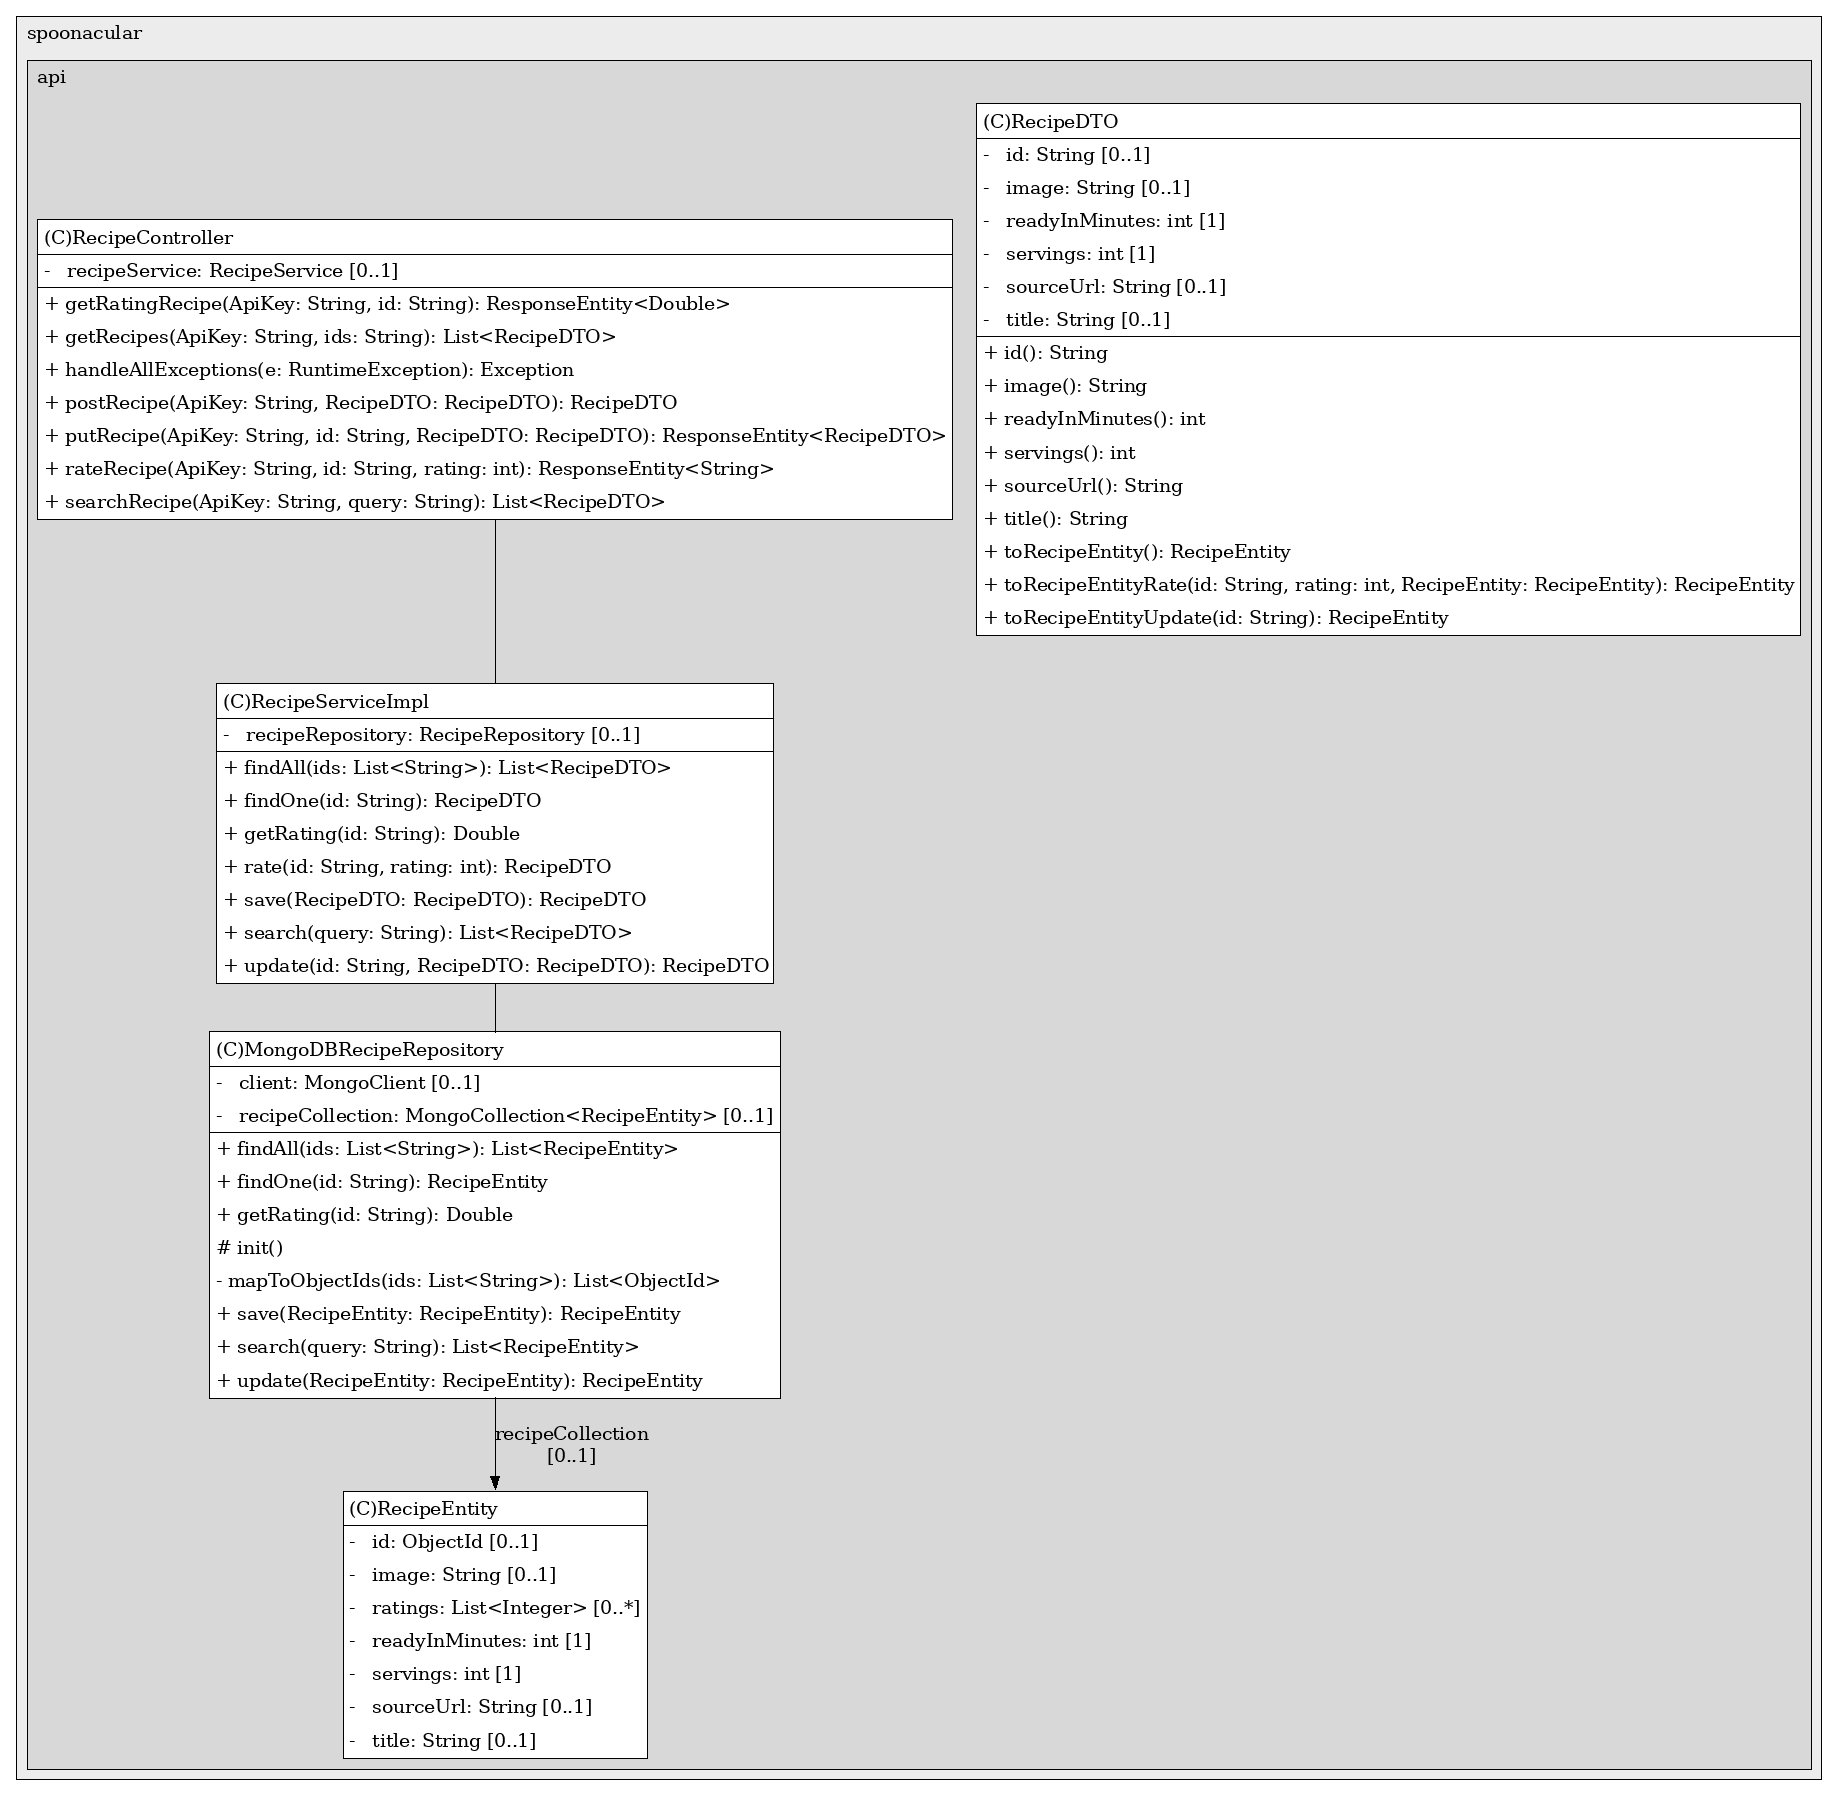
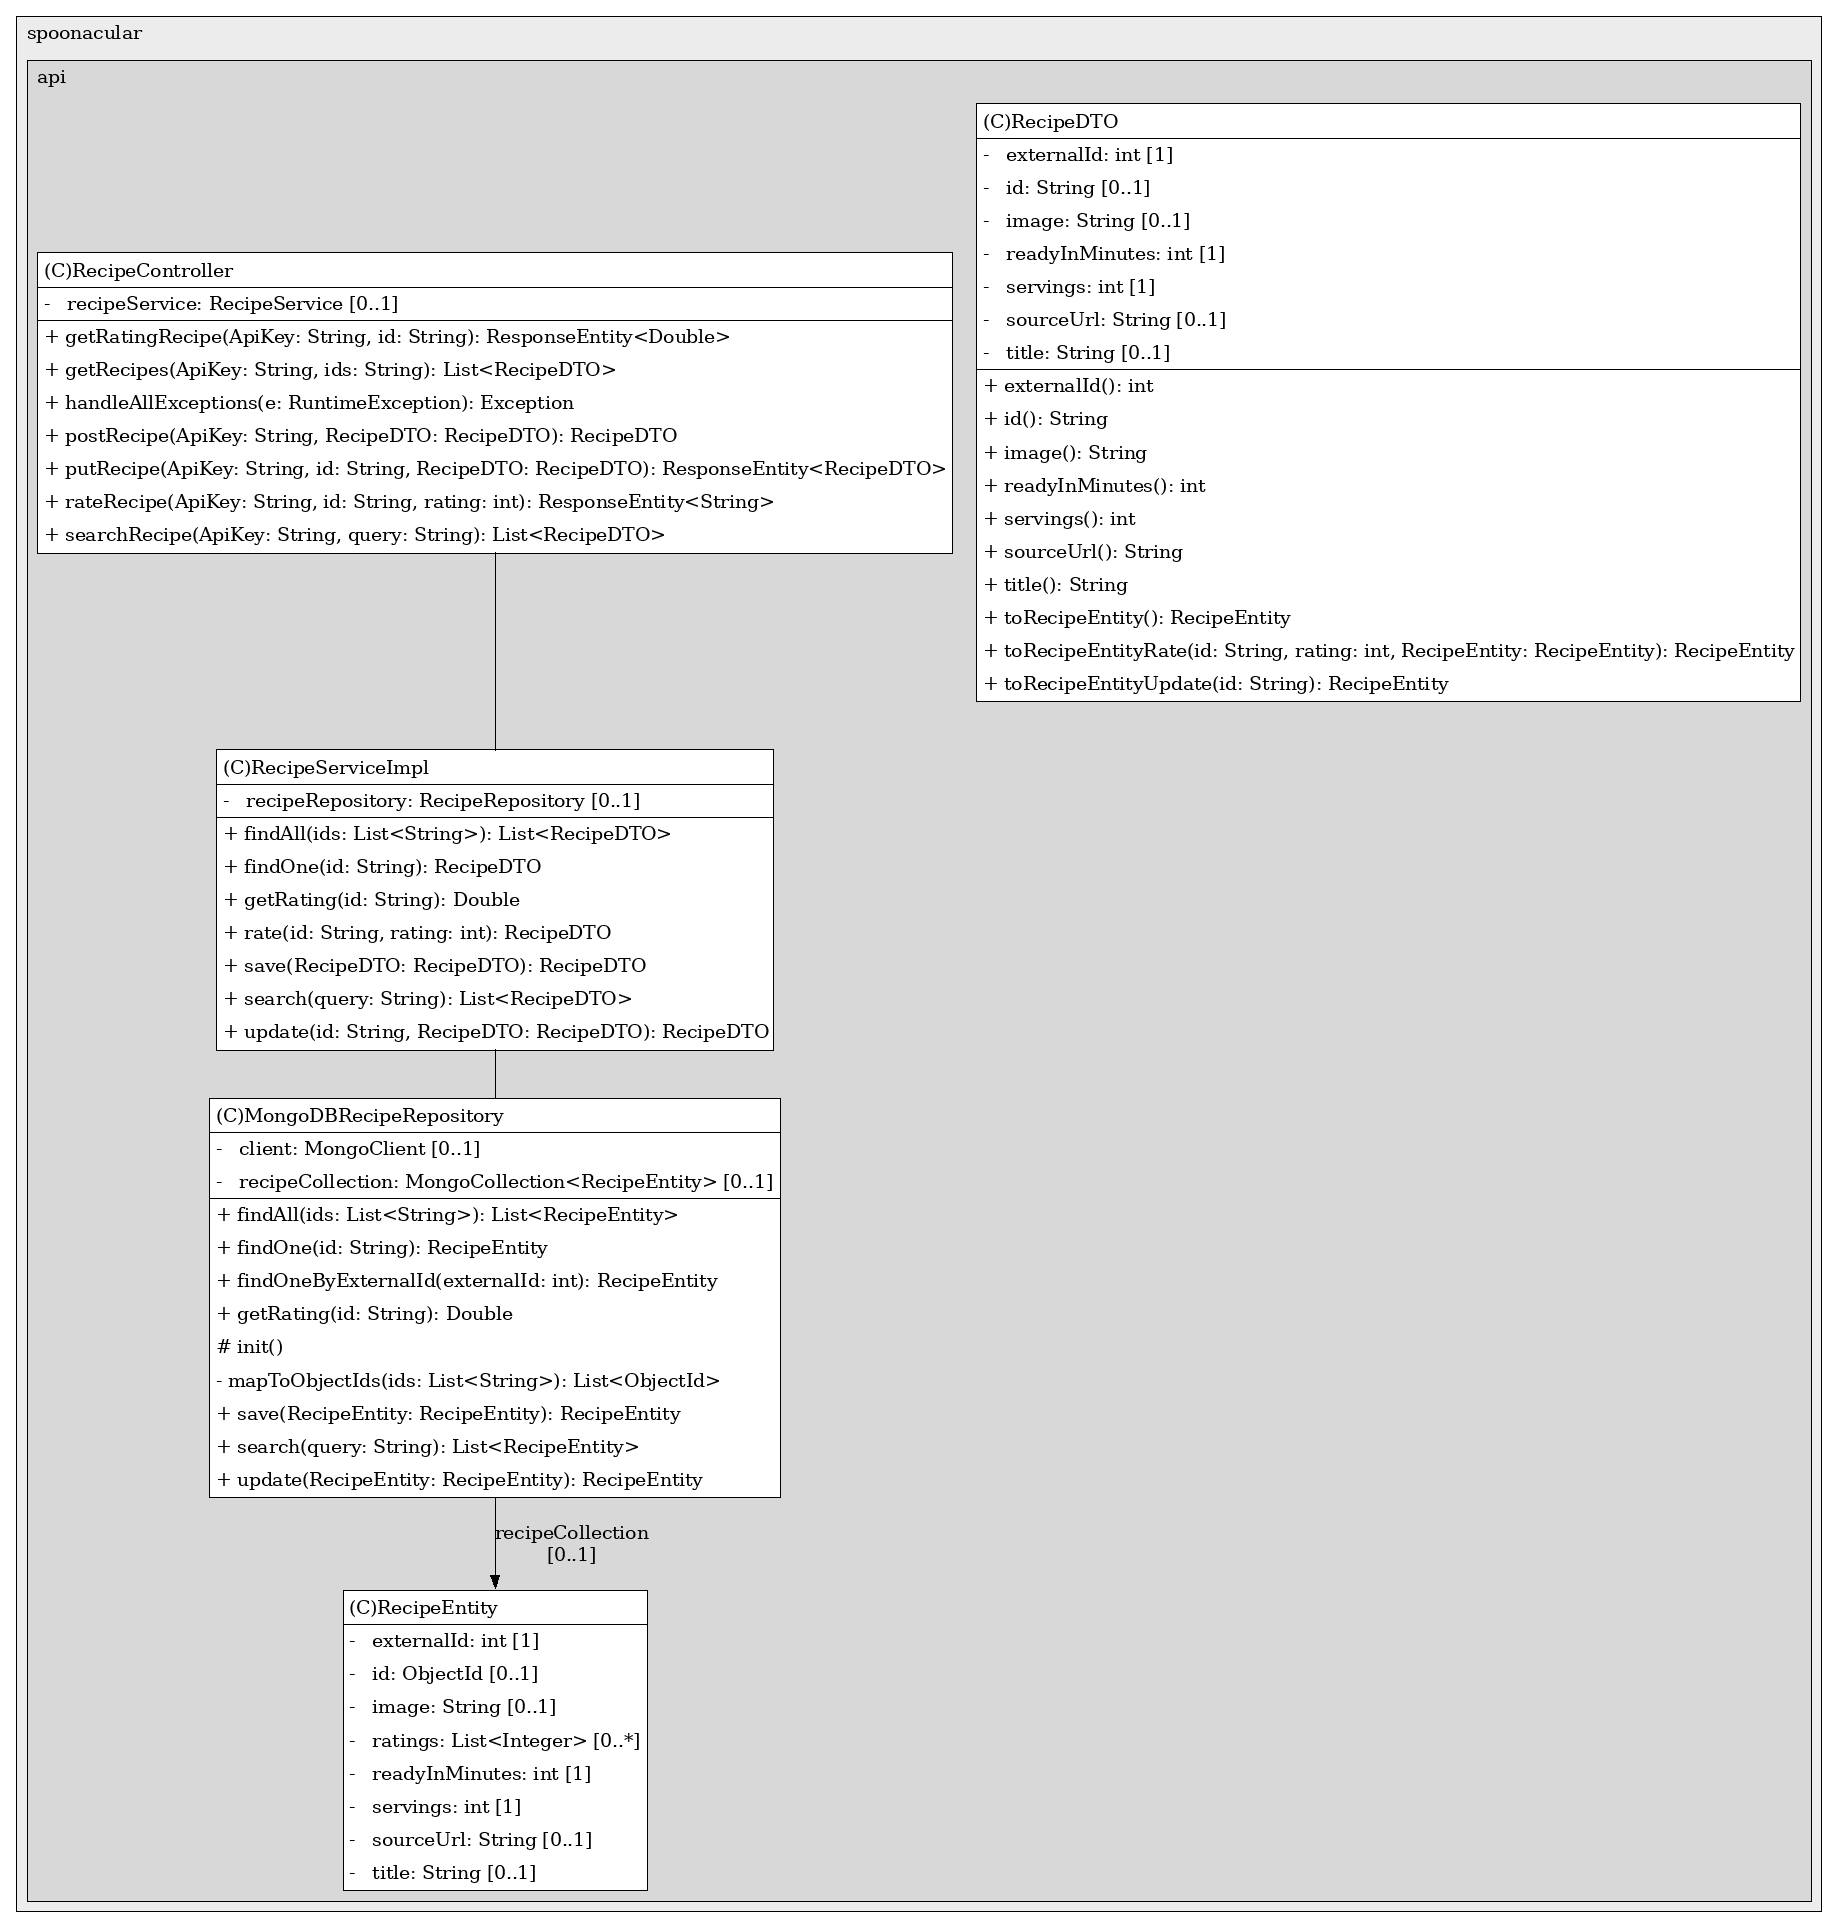
Updated documentation

Changed region(s): [[0.0, 0.0312, 0.9929, 0.3744], [0.0931, 0.3744, 0.4344, 0.9983], [0.0, 0.0, 0.0931, 0.0312]]

diff --git a/src/main/java/com/spoonacular/api/repositories/MongoDBRecipeRepository.java b/src/main/java/com/spoonacular/api/repositories/MongoDBRecipeRepository.java
@@ -20,20 +20,19 @@ import static com.mongodb.client.model.Filters.*;
 import static com.mongodb.client.model.ReturnDocument.AFTER;
 
 /**
- * The MongoDBRecipeRepository class implements the RecipeRepository interface.
- * It provides the concrete implementation of the methods declared in the RecipeRepository interface.
- * This class is responsible for performing CRUD operations on the RecipeEntity objects in the MongoDB database.
- * The class is annotated with @Repository, indicating that it's a Data Access Object (DAO) providing the mechanism for storage, retrieval,
- * search, update and delete operation on objects.
- * The class includes a constructor for creating a new MongoDBRecipeRepository object with a MongoClient parameter.
- * It also includes a @PostConstruct annotated method for initializing the MongoCollection with the appropriate database and collection.
- * The class overrides the save, findAll, findOne, search, update, and getRating methods from the RecipeRepository interface.
- * The save method is used to save a new RecipeEntity object in the database.
- * The findAll method is used to find all RecipeEntity objects in the database by their ids.
- * The findOne method is used to find a RecipeEntity object in the database by its id.
- * The search method is used to find RecipeEntity objects in the database by a query string.
- * The update method is used to update an existing RecipeEntity object in the database and return the updated object.
- * The getRating method is used to calculate the average rating of a RecipeEntity object.
+ * The MongoDBRecipeRepository class is a repository class in this Spring Boot application that implements the RecipeRepository interface.
+ * The class is annotated with @Repository, indicating that it's a repository component in the Spring framework. It's automatically detected during classpath scanning.
+ * The class includes a private MongoClient field for interacting with MongoDB, and a MongoCollection field for handling the collection of RecipeEntity objects.
+ * The class includes a constructor that takes a MongoClient object as a parameter. This constructor is used for dependency injection.
+ * The class includes an init method annotated with @PostConstruct, which is used to initialize the recipeCollection field after dependency injection is done.
+ * The class implements several methods from the RecipeRepository interface:
+ * - save(RecipeEntity RecipeEntity): This method saves a new RecipeEntity to the MongoDB collection and returns it.
+ * - findAll(List<String> ids): This method finds and returns all RecipeEntity objects with the given ids from the MongoDB collection.
+ * - findOne(String id): This method finds and returns a RecipeEntity with the given id from the MongoDB collection.
+ * - findOneByExternalId(int externalId): This method finds and returns a RecipeEntity with the given external id from the MongoDB collection.
+ * - search(String query): This method finds and returns all RecipeEntity objects that match the given query from the MongoDB collection.
+ * - update(RecipeEntity RecipeEntity): This method updates a RecipeEntity in the MongoDB collection and returns it.
+ * - getRating(String id): This method calculates and returns the average rating of a RecipeEntity with the given id from the MongoDB collection.
  */
 @Repository
 public class MongoDBRecipeRepository implements RecipeRepository {

diff --git a/src/main/java/com/spoonacular/api/dtos/RecipeDTO.java b/src/main/java/com/spoonacular/api/dtos/RecipeDTO.java
@@ -8,15 +8,20 @@ import java.util.ArrayList;
 import java.util.List;
 
 /**
- * The RecipeDTO record is a Data Transfer Object (DTO) used for transferring data between subsystems of the application.
- * It is used to represent a recipe in a form that is convenient for the client-side of the application.
- * It includes fields for id, readyInMinutes, sourceUrl, image, servings, and title.
- * The record also includes methods for converting between RecipeDTO and RecipeEntity objects.
- * These methods are used when retrieving data from the database and sending it to the client, or vice versa.
- * The RecipeDTO(RecipeEntity p) constructor is used to create a RecipeDTO object from a RecipeEntity object.
- * The toRecipeEntity() method is used to convert a RecipeDTO object back into a RecipeEntity object.
- * The toRecipeEntityUpdate(String id) method is used to convert a RecipeDTO object into a RecipeEntity object with a specific id.
- * The toRecipeEntityRate(String id, int rating, RecipeEntity RecipeEntity) method is used to convert a RecipeDTO object into a RecipeEntity object with a specific id and rating.
+ * The RecipeDTO record is a data transfer object in this Spring Boot application.
+ * The record includes the following fields:
+ * - id: A string representing the id of the recipe.
+ * - readyInMinutes: An integer representing the time required to prepare the recipe.
+ * - sourceUrl: A string representing the URL of the source of the recipe.
+ * - image: A string representing the URL of the image of the recipe.
+ * - servings: An integer representing the number of servings the recipe makes.
+ * - title: A string representing the title of the recipe.
+ * - externalId: An integer representing the external id of the recipe.
+ * The record includes a constructor that takes a RecipeEntity object as a parameter and initializes the fields of the record.
+ * The record includes several methods to convert the RecipeDTO to a RecipeEntity:
+ * - toRecipeEntity(): This method creates a new RecipeEntity object from the RecipeDTO.
+ * - toRecipeEntityUpdate(String id): This method creates a new RecipeEntity object from the RecipeDTO with a specified id.
+ * - toRecipeEntityRate(String id, int rating, RecipeEntity RecipeEntity): This method creates a new RecipeEntity object from the RecipeDTO with a specified id and rating.
  */
 public record RecipeDTO(
         String id,

diff --git a/src/main/java/com/spoonacular/api/services/SpoonacularServiceImpl.java b/src/main/java/com/spoonacular/api/services/SpoonacularServiceImpl.java
@@ -15,12 +15,11 @@ import java.util.Optional;
 /**
  * The SpoonacularServiceImpl class is a service class in this Spring Boot application that implements the SpoonacularService interface.
  * The class is annotated with @Service, indicating that it's a service component in the Spring framework. It's automatically detected during classpath scanning.
- * The class includes a private field named restTemplate which is a Spring's central class for synchronous HTTP client-side access.
- * It also includes two private fields, apiKey and baseUrl, which are injected from the application's properties file.
- * The class includes a constructor that takes a RestTemplateBuilder object as a parameter. This constructor is used for dependency injection and to build the restTemplate.
+ * The class includes two private fields, apiKey and baseUrl, which are injected from the application's properties file. It also includes a RestTemplate object for making HTTP requests and a RecipeRepository object for interacting with the database.
+ * The class includes a constructor that takes a RestTemplateBuilder and a RecipeRepository object as parameters. This constructor is used for dependency injection and to build the restTemplate.
  * The class implements two methods from the SpoonacularService interface:
- * - findOne(int id): This method constructs the URI for the Spoonacular API, makes a GET request to the API, and returns a JsonObject that represents a recipe with the given id.
- * - search(String query): This method constructs the URI for the Spoonacular API, makes a GET request to the API, and returns a JsonObject that represents a recipe matching the given query string.
+ * - findOne(int id): This method constructs the URI for the Spoonacular API, makes a GET request to the API, and returns a JsonObject that represents a recipe with the given id. It also updates the corresponding recipe in the database.
+ * - search(String query): This method constructs the URI for the Spoonacular API, makes a GET request to the API, and returns a JsonObject that represents a recipe matching the given query string. It also saves the corresponding recipes in the database.
  */
 @Service
 public class SpoonacularServiceImpl implements SpoonacularService {

diff --git a/src/main/java/com/spoonacular/api/repositories/RecipeRepository.java b/src/main/java/com/spoonacular/api/repositories/RecipeRepository.java
@@ -7,13 +7,16 @@ import org.springframework.stereotype.Repository;
 import java.util.List;
 
 /**
- * The RecipeRepository interface is a part of the repository layer in the MVC architecture of this Spring Boot application.
- * It is used to interact with the database for operations related to RecipeEntity.
- * It is annotated with @Repository, indicating that it's a Data Access Object (DAO) providing the mechanism for storage, retrieval,
- * search, update and delete operation on objects.
- * The interface includes methods for saving a RecipeEntity, finding all RecipeEntity by their ids, finding a RecipeEntity by its id,
- * searching for RecipeEntity by a query string, updating a RecipeEntity, and getting the rating of a RecipeEntity by its id.
- * These methods are used to perform CRUD operations on the RecipeEntity table in the database.
+ * The RecipeRepository interface is a repository interface in this Spring Boot application.
+ * The interface is annotated with @Repository, indicating that it's a repository component in the Spring framework. It's automatically detected during classpath scanning.
+ * The interface defines several methods for interacting with the database:
+ * - save(RecipeEntity RecipeEntity): This method is intended to save a new RecipeEntity to the database and return it.
+ * - findAll(List<String> ids): This method is intended to find and return all RecipeEntity objects with the given ids from the database.
+ * - findOne(String id): This method is intended to find and return a RecipeEntity with the given id from the database.
+ * - findOneByExternalId(int externalId): This method is intended to find and return a RecipeEntity with the given external id from the database.
+ * - search(String query): This method is intended to find and return all RecipeEntity objects that match the given query from the database.
+ * - update(RecipeEntity RecipeEntity): This method is intended to update a RecipeEntity in the database and return it.
+ * - getRating(String id): This method is intended to calculate and return the average rating of a RecipeEntity with the given id from the database.
  */
 @Repository
 public interface RecipeRepository {

diff --git a/src/main/java/com/spoonacular/api/models/RecipeEntity.java b/src/main/java/com/spoonacular/api/models/RecipeEntity.java
@@ -9,14 +9,20 @@ import java.util.List;
 import java.util.Objects;
 
 /**
- * The RecipeEntity class represents a Recipe entity in the application.
- * It includes properties for id, readyInMinutes, sourceUrl, image, servings, title, and ratings.
- * The class includes constructors for creating a new RecipeEntity object with or without parameters.
- * It also includes getter and setter methods for each property.
- * The class overrides the equals, hashCode, and toString methods from the Object class.
- * The equals method is used to check if two RecipeEntity objects are equal based on their properties.
- * The hashCode method returns a hash code value for the object, which is used in hash-based collections such as HashMap and HashSet.
- * The toString method returns a string representation of the object, which can be useful for debugging.
+ * The RecipeEntity class is a model class in this Spring Boot application.
+ * The class includes the following fields:
+ * - id: An ObjectId representing the id of the recipe.
+ * - readyInMinutes: An integer representing the time required to prepare the recipe.
+ * - sourceUrl: A string representing the URL of the source of the recipe.
+ * - image: A string representing the URL of the image of the recipe.
+ * - servings: An integer representing the number of servings the recipe makes.
+ * - title: A string representing the title of the recipe.
+ * - ratings: A list of integers representing the ratings of the recipe.
+ * - externalId: An integer representing the external id of the recipe.
+ * The class includes a default constructor and a constructor that initializes all the fields of the class.
+ * The class includes getter and setter methods for all the fields.
+ * The class overrides the equals and hashCode methods from the Object class to compare RecipeEntity objects based on their fields.
+ * The class also overrides the toString method from the Object class to provide a string representation of the RecipeEntity object.
  */
 public class RecipeEntity {
 

diff --git a/README.md b/README.md
@@ -34,9 +34,10 @@ The Recipes API includes endpoints for:
 - Searching for recipes
 - Updating a recipe's information
 - Rating a recipe
-- Retrieving a recipe's rating.
+- Retrieving a recipe's rating
 
 ![spoonacular_swagger](./documents/spoonacular_swagger.png)
+![spoonacular_api_schema](./documents/spoonacular_api_schema.png)
 
 ### Spoonacular API
 
@@ -44,10 +45,11 @@ The Recipes API includes endpoints for:
 > Please see documentation on each Class for further explanation on how the API works.
 
 The Spoonacular API includes endpoints to:
-- Get recipes summary given a search criteria.
-- Get a recipe summary given an ID.
+- Get recipes summary given a search criteria. This action also populates the local MongoDB with recipes data.
+- Get a recipe summary given an ID. This action also updates a recipe in the local MongoDB by externalId.
 
 ![spoonacular_api_swagger](./documents/spoonacular_api_swagger.png)
+> The schema of the Spoonacular API corresponds to the same specified [here](https://spoonacular.com/food-api/docs).
 
 ## MongoDB
 
